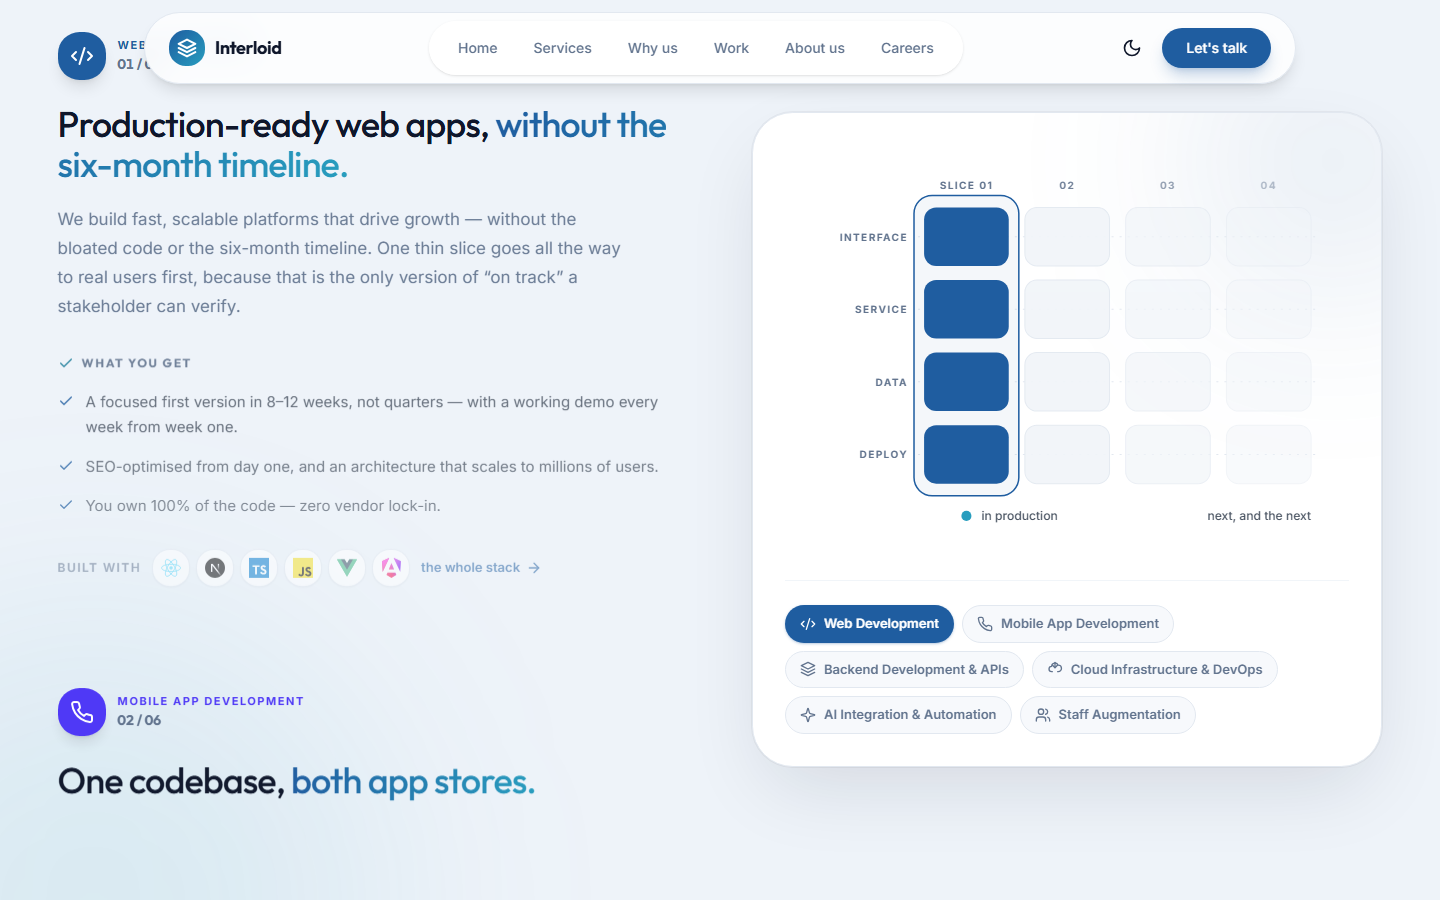
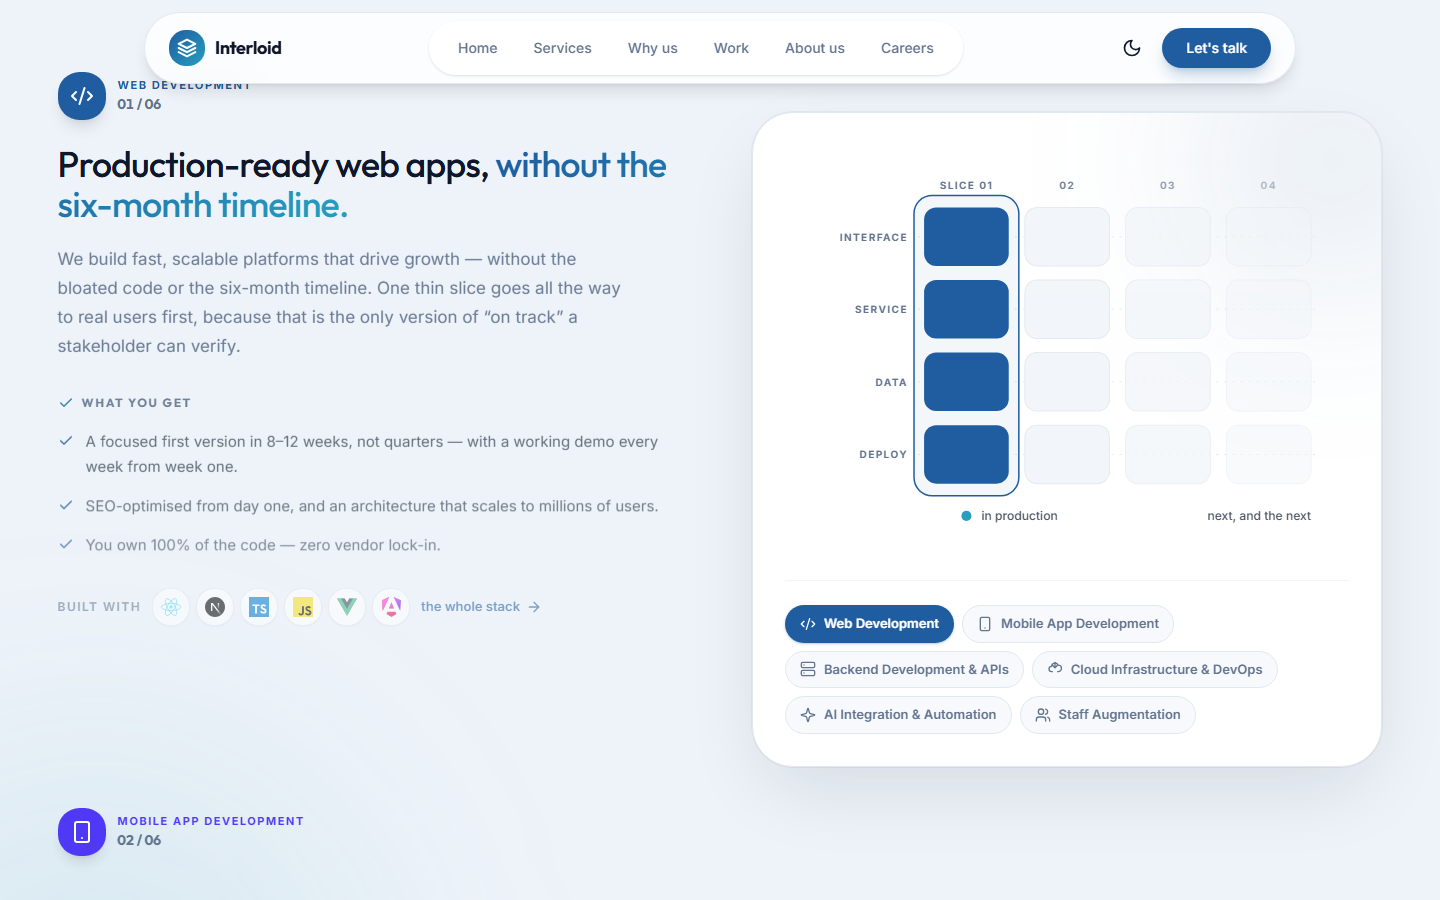
completed the services page

diff --git a/src/components/Nav.tsx b/src/components/Nav.tsx
@@ -53,7 +53,11 @@ const subscribeTheme = (onChange: () => void) => {
 const getTheme = () => document.documentElement.classList.contains("dark");
 const getServerTheme = () => false;
 
-const REST = "max-w-7xl px-0 border-transparent";
+/* The two states of DS §6.1's morph, now expressed INSIDE the shell rather
+   than as page widths of their own. `max-w-none` at rest is what makes the
+   bar fill the content column exactly; `max-w-6xl` scrolled is the same
+   1152px pill it has always been, centred by `mx-auto`. */
+const REST = "max-w-none px-0 border-transparent";
 const PILL =
   "max-w-6xl px-6 py-2 bg-card/80 backdrop-blur-lg shadow-lg border-border rounded-full";
 
@@ -100,7 +104,9 @@ export default function Nav() {
     /* Links are "/#id" now so they work from any page; the scrollspy only
        cares about the fragment, and only on a page that actually has it. */
     const targets = LINKS.map((l) =>
-      l.href.includes("#") ? document.querySelector("#" + l.href.split("#")[1]) : null,
+      l.href.includes("#")
+        ? document.querySelector("#" + l.href.split("#")[1])
+        : null,
     ).filter(Boolean) as Element[];
     if (!targets.length) return;
 
@@ -168,150 +174,164 @@ export default function Nav() {
       <nav
         id="nav"
         aria-label="Primary"
-        className={`fixed left-0 right-0 top-0 z-50 flex justify-center px-4 transition-[padding] duration-300 ease-in-out ${
+        /* No `px-4` here any more: the gutter is the shell's, so the logo
+           starts exactly where the page's first line of text starts. Adding
+           one back would offset the header from the page by 16px at every
+           width — which is how this was wrong before. */
+        className={`fixed left-0 right-0 top-0 z-50 transition-[padding] duration-300 ease-in-out ${
           scrolled ? "py-3" : "py-6"
         }`}
       >
-        <div
-          className={`relative flex w-full items-center justify-between gap-6 border transition-all duration-300 ease-in-out ${
-            scrolled ? PILL : REST
-          }`}
-        >
-          <a
-            href="/"
-            className="flex shrink-0 items-center gap-2.5 rounded-full"
-            aria-label="Interloid home"
+        <div className="shell">
+          <div
+            /* A STABLE HOOK. `.verify.mjs` addressed this element as
+               `#nav > div`, which broke the moment the shell wrapper went in
+               between — the morph still worked, the check just pointed at the
+               wrong node. An attribute survives markup changes; a position
+               does not. */
+            data-navbar
+            className={`relative mx-auto flex w-full items-center justify-between gap-6 border transition-all duration-300 ease-in-out ${
+              scrolled ? PILL : REST
+            }`}
           >
-            <span
-              className="grid size-9 place-items-center rounded-xl bg-gradient-to-br from-brand to-accent text-white"
-              aria-hidden="true"
+            <a
+              href="/"
+              className="flex shrink-0 items-center gap-2.5 rounded-full"
+              aria-label="Interloid home"
             >
-              <svg
-                viewBox="0 0 24 24"
-                fill="none"
-                stroke="currentColor"
-                strokeWidth="2.5"
-                strokeLinecap="round"
-                strokeLinejoin="round"
-                className="size-5"
+              <span
+                className="grid size-9 place-items-center rounded-xl bg-gradient-to-br from-brand to-accent text-white"
+                aria-hidden="true"
               >
-                <path d="M12 2 2 7l10 5 10-5-10-5Z" />
-                <path d="m2 17 10 5 10-5" />
-                <path d="m2 12 10 5 10-5" />
-              </svg>
-            </span>
-            <span className="font-display text-lg font-bold tracking-tight text-foreground">
-              Interloid
-            </span>
-          </a>
+                <svg
+                  viewBox="0 0 24 24"
+                  fill="none"
+                  stroke="currentColor"
+                  strokeWidth="2.5"
+                  strokeLinecap="round"
+                  strokeLinejoin="round"
+                  className="size-5"
+                >
+                  <path d="M12 2 2 7l10 5 10-5-10-5Z" />
+                  <path d="m2 17 10 5 10-5" />
+                  <path d="m2 12 10 5 10-5" />
+                </svg>
+              </span>
+              <span className="font-display text-lg font-bold tracking-tight text-foreground">
+                Interloid
+              </span>
+            </a>
 
-          {/* §6.2 a pill inside a pill */}
-          <div className="hidden items-center gap-1 rounded-full border border-white/40 bg-card/80 px-3 py-2 p-1 shadow-sm backdrop-blur-sm xl:flex">
-            {LINKS.map((l) => (
-              <a
-                key={l.href}
-                href={l.href}
-                className={linkClass(l.href)}
-                aria-current={current === l.href ? "true" : undefined}
-                {...("placeholder" in l
-                  ? { "data-placeholder": l.placeholder }
-                  : {})}
-              >
-                {l.label}
-              </a>
-            ))}
-          </div>
+            {/* §6.2 a pill inside a pill */}
+            <div className="hidden items-center gap-1 rounded-full border border-white/40 bg-card/80 px-3 py-2 p-1 shadow-sm backdrop-blur-sm xl:flex">
+              {LINKS.map((l) => (
+                <a
+                  key={l.href}
+                  href={l.href}
+                  className={linkClass(l.href)}
+                  aria-current={current === l.href ? "true" : undefined}
+                  {...("placeholder" in l
+                    ? { "data-placeholder": l.placeholder }
+                    : {})}
+                >
+                  {l.label}
+                </a>
+              ))}
+            </div>
 
-          <div className="flex items-center gap-2">
-            {/* Two SVGs toggled by class, never innerHTML — HANDOFF §5.3:
+            <div className="flex items-center gap-2">
+              {/* Two SVGs toggled by class, never innerHTML — HANDOFF §5.3:
                 replacing a button's contents detaches the click's original
                 target. React keeps the node stable, but rendering both and
                 hiding one means the bug cannot come back by refactor. */}
-            <button
-              type="button"
-              onClick={toggleTheme}
-              aria-pressed={dark}
-              aria-label={dark ? "Switch to light theme" : "Switch to dark theme"}
-              className="grid size-11 place-items-center rounded-full text-foreground transition-colors hover:bg-muted"
-            >
-              <svg
-                data-icon="moon"
-                viewBox="0 0 24 24"
-                fill="none"
-                stroke="currentColor"
-                strokeWidth="2"
-                strokeLinecap="round"
-                strokeLinejoin="round"
-                className={`size-5 ${dark ? "hidden" : ""}`}
-                aria-hidden="true"
+              <button
+                type="button"
+                onClick={toggleTheme}
+                aria-pressed={dark}
+                aria-label={
+                  dark ? "Switch to light theme" : "Switch to dark theme"
+                }
+                className="grid size-11 place-items-center rounded-full text-foreground transition-colors hover:bg-muted"
               >
-                <path d="M12 3a6 6 0 0 0 9 9 9 9 0 1 1-9-9Z" />
-              </svg>
-              <svg
-                data-icon="sun"
-                viewBox="0 0 24 24"
-                fill="none"
-                stroke="currentColor"
-                strokeWidth="2"
-                strokeLinecap="round"
-                strokeLinejoin="round"
-                className={`size-5 ${dark ? "" : "hidden"}`}
-                aria-hidden="true"
-              >
-                <circle cx="12" cy="12" r="4" />
-                <path d="M12 2v2M12 20v2M4.93 4.93l1.41 1.41M17.66 17.66l1.41 1.41M2 12h2M20 12h2M6.34 17.66l-1.41 1.41M19.07 4.93l-1.41 1.41" />
-              </svg>
-            </button>
+                <svg
+                  data-icon="moon"
+                  viewBox="0 0 24 24"
+                  fill="none"
+                  stroke="currentColor"
+                  strokeWidth="2"
+                  strokeLinecap="round"
+                  strokeLinejoin="round"
+                  className={`size-5 ${dark ? "hidden" : ""}`}
+                  aria-hidden="true"
+                >
+                  <path d="M12 3a6 6 0 0 0 9 9 9 9 0 1 1-9-9Z" />
+                </svg>
+                <svg
+                  data-icon="sun"
+                  viewBox="0 0 24 24"
+                  fill="none"
+                  stroke="currentColor"
+                  strokeWidth="2"
+                  strokeLinecap="round"
+                  strokeLinejoin="round"
+                  className={`size-5 ${dark ? "" : "hidden"}`}
+                  aria-hidden="true"
+                >
+                  <circle cx="12" cy="12" r="4" />
+                  <path d="M12 2v2M12 20v2M4.93 4.93l1.41 1.41M17.66 17.66l1.41 1.41M2 12h2M20 12h2M6.34 17.66l-1.41 1.41M19.07 4.93l-1.41 1.41" />
+                </svg>
+              </button>
 
-            {/* "/#contact", not "#contact": a bare fragment is a no-op on any
+              {/* "/#contact", not "#contact": a bare fragment is a no-op on any
                 page without that section, i.e. everything except home. */}
-            <a
-              href="/#contact"
-              className="hidden rounded-full bg-primary px-6 py-2.5 text-sm font-medium text-primary-foreground shadow-lg shadow-primary/25 transition-all hover:bg-brand-light hover:shadow-primary/40 active:scale-95 xl:inline-flex"
-            >
-              Let&apos;s talk
-            </a>
+              <a
+                href="/#contact"
+                className="hidden rounded-full bg-primary px-6 py-2.5 text-sm font-medium text-primary-foreground shadow-lg shadow-primary/25 transition-all hover:bg-brand-light hover:shadow-primary/40 active:scale-95 xl:inline-flex"
+              >
+                Let&apos;s talk
+              </a>
 
-            <button
-              ref={toggleRef}
-              type="button"
-              aria-label={open ? "Close menu" : "Open menu"}
-              aria-expanded={open}
-              aria-controls="mobileMenu"
-              onClick={(e) => {
-                e.stopPropagation();
-                setOpen((o) => !o);
-              }}
-              className="grid size-11 place-items-center rounded-full text-foreground transition-colors hover:bg-muted xl:hidden"
-            >
-              <svg
-                data-icon="menu"
-                viewBox="0 0 24 24"
-                fill="none"
-                stroke="currentColor"
-                strokeWidth="2"
-                strokeLinecap="round"
-                className={`size-6 ${open ? "hidden" : ""}`}
-                aria-hidden="true"
+              <button
+                ref={toggleRef}
+                type="button"
+                aria-label={open ? "Close menu" : "Open menu"}
+                aria-expanded={open}
+                aria-controls="mobileMenu"
+                onClick={(e) => {
+                  e.stopPropagation();
+                  setOpen((o) => !o);
+                }}
+                className="grid size-11 place-items-center rounded-full text-foreground transition-colors hover:bg-muted xl:hidden"
               >
-                <path d="M4 6h16" />
-                <path d="M4 12h16" />
-                <path d="M4 18h16" />
-              </svg>
-              <svg
-                data-icon="close"
-                viewBox="0 0 24 24"
-                fill="none"
-                stroke="currentColor"
-                strokeWidth="2"
-                strokeLinecap="round"
-                className={`size-6 ${open ? "" : "hidden"}`}
-                aria-hidden="true"
-              >
-                <path d="M18 6 6 18" />
-                <path d="m6 6 12 12" />
-              </svg>
-            </button>
+                <svg
+                  data-icon="menu"
+                  viewBox="0 0 24 24"
+                  fill="none"
+                  stroke="currentColor"
+                  strokeWidth="2"
+                  strokeLinecap="round"
+                  className={`size-6 ${open ? "hidden" : ""}`}
+                  aria-hidden="true"
+                >
+                  <path d="M4 6h16" />
+                  <path d="M4 12h16" />
+                  <path d="M4 18h16" />
+                </svg>
+                <svg
+                  data-icon="close"
+                  viewBox="0 0 24 24"
+                  fill="none"
+                  stroke="currentColor"
+                  strokeWidth="2"
+                  strokeLinecap="round"
+                  className={`size-6 ${open ? "" : "hidden"}`}
+                  aria-hidden="true"
+                >
+                  <path d="M18 6 6 18" />
+                  <path d="m6 6 12 12" />
+                </svg>
+              </button>
+            </div>
           </div>
         </div>
       </nav>
@@ -322,7 +342,9 @@ export default function Nav() {
         ref={menuRef}
         id="mobileMenu"
         className={`fixed left-4 right-4 top-24 z-40 origin-top rounded-3xl border border-border bg-card p-6 shadow-2xl transition-all duration-300 ease-in-out xl:hidden ${
-          open ? "visible scale-100 opacity-100" : "invisible scale-95 opacity-0"
+          open
+            ? "visible scale-100 opacity-100"
+            : "invisible scale-95 opacity-0"
         }`}
       >
         <nav aria-label="Mobile" className="flex flex-col">

diff --git a/src/components/service/CapabilityShowcase.tsx b/src/components/service/CapabilityShowcase.tsx
@@ -124,14 +124,19 @@ export default function CapabilityShowcase({
                   }}
                   data-cap-index={i}
                   id={`capability-${c.k}`}
-                  /* 58vh, not 78, and `justify-start` above `lg`. The
-                     height is scroll distance for the sticky panel to swap
-                     on, nothing else — at 78vh with the content centred, a
-                     short capability sat in three-quarters of a screen of
-                     air, split above and below it. What is left now falls
-                     under the text, where it reads as separation rather than
-                     as a hole. */
-                  className="flex scroll-mt-32 flex-col justify-center border-b border-border py-12 last:border-b-0 lg:min-h-[58vh] lg:justify-start lg:border-b-0 lg:py-14"
+                  /* TWO NUMBERS, TWO JOBS. `min-h` is scroll distance for
+                     the sticky panel to swap on; `py` is the separation
+                     between one capability and the next. They were confused
+                     once in each direction: 78vh with the content CENTRED put
+                     240px of nothing between the section heading and the
+                     first block, and dropping to 58vh with `py-14` then left
+                     only 147px between blocks — too little for an item that
+                     is a heading, three paragraphs and a list.
+
+                     `justify-start` keeps the slack below the text instead of
+                     splitting it above and below, and the separation is `py`
+                     now, where it can be read as separation. */
+                  className="flex scroll-mt-32 flex-col justify-center border-b border-border py-12 last:border-b-0 lg:min-h-[58vh] lg:justify-start lg:border-b-0 lg:py-24"
                 >
                   <div
                     data-reveal

diff --git a/src/components/Icon.tsx b/src/components/Icon.tsx
@@ -168,6 +168,24 @@ export const ICONS = {
       <path d="m21 21-4.3-4.3" />
     </>
   ),
+  /* ── SERVICE MARKS ───────────────────────────────────────────────────
+     Added 2026-09-08 for two of the six services whose marks said the wrong
+     thing: `phone` is a telephone receiver ("call us") and `layers` is the
+     Interloid logo itself, worn by the core of the ecosystem wheel. */
+  smartphone: (
+    <>
+      <rect width="14" height="20" x="5" y="2" rx="2" ry="2" />
+      <path d="M12 18h.01" />
+    </>
+  ),
+  server: (
+    <>
+      <rect width="20" height="8" x="2" y="2" rx="2" ry="2" />
+      <rect width="20" height="8" x="2" y="14" rx="2" ry="2" />
+      <path d="M6 6h.01" />
+      <path d="M6 18h.01" />
+    </>
+  ),
   layers: (
     <>
       <path d="M12 2 2 7l10 5 10-5-10-5Z" />

diff --git a/src/content/service.ts b/src/content/service.ts
@@ -253,7 +253,7 @@ export const CAPABILITIES: readonly Capability[] = [
   },
   {
     k: "mobile",
-    icon: "phone",
+    icon: "smartphone",
     name: "Mobile App Development",
     hue: "indigo",
     figure: "stores",
@@ -300,7 +300,7 @@ export const CAPABILITIES: readonly Capability[] = [
   },
   {
     k: "backend",
-    icon: "layers",
+    icon: "server",
     name: "Backend Development & APIs",
     hue: "teal",
     figure: "api",
